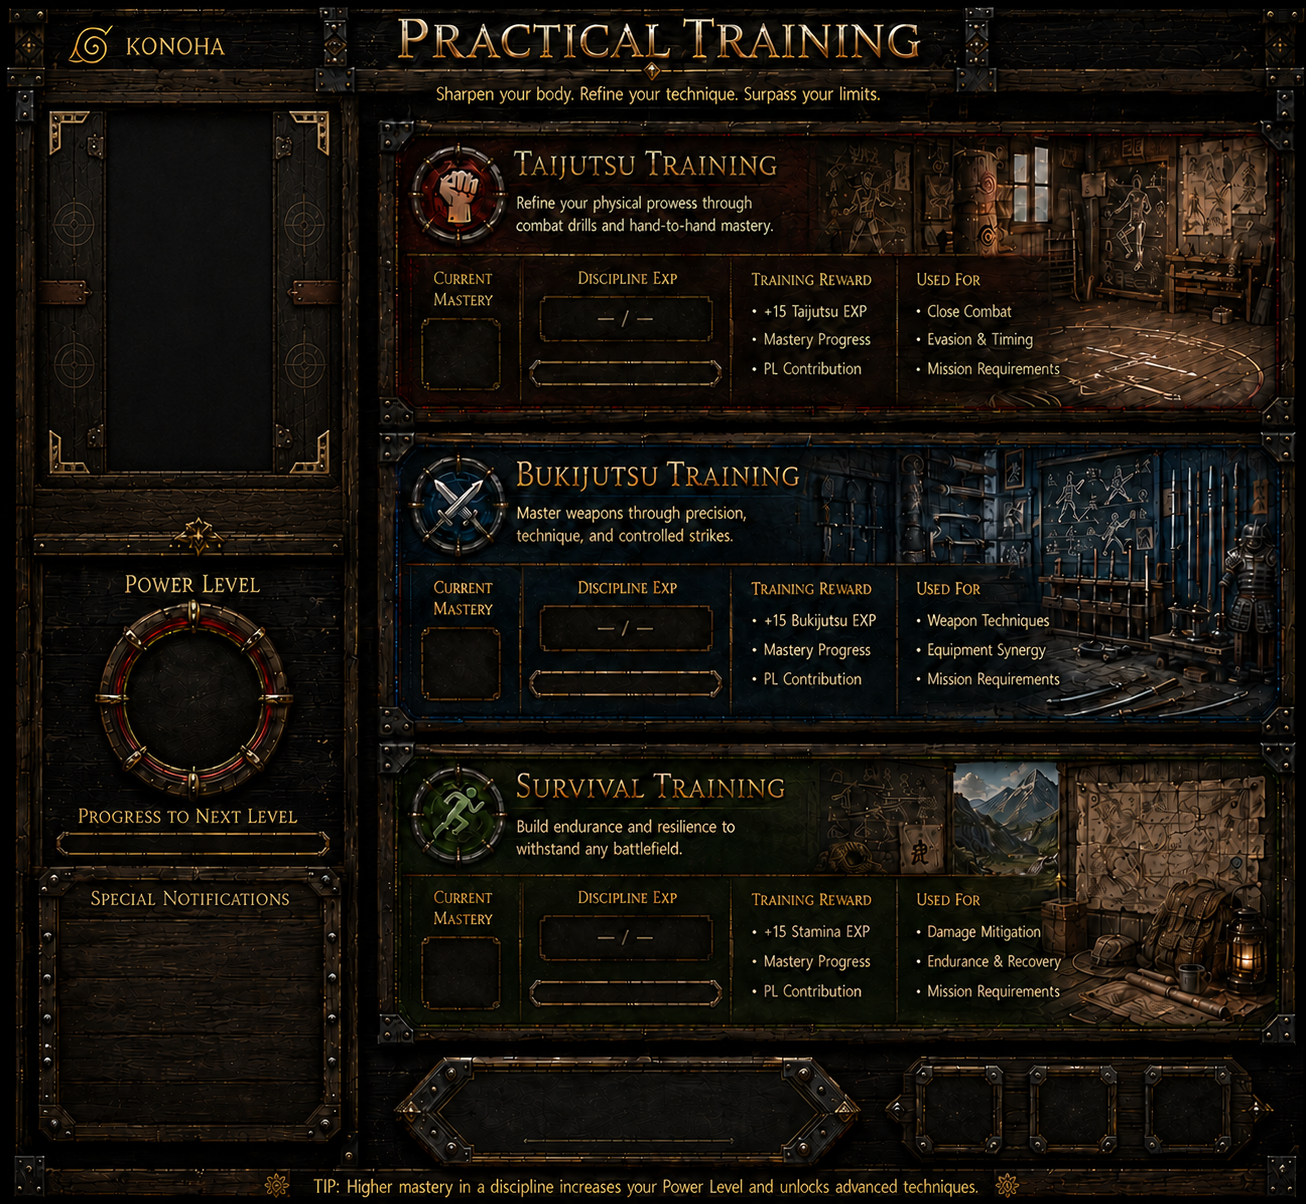
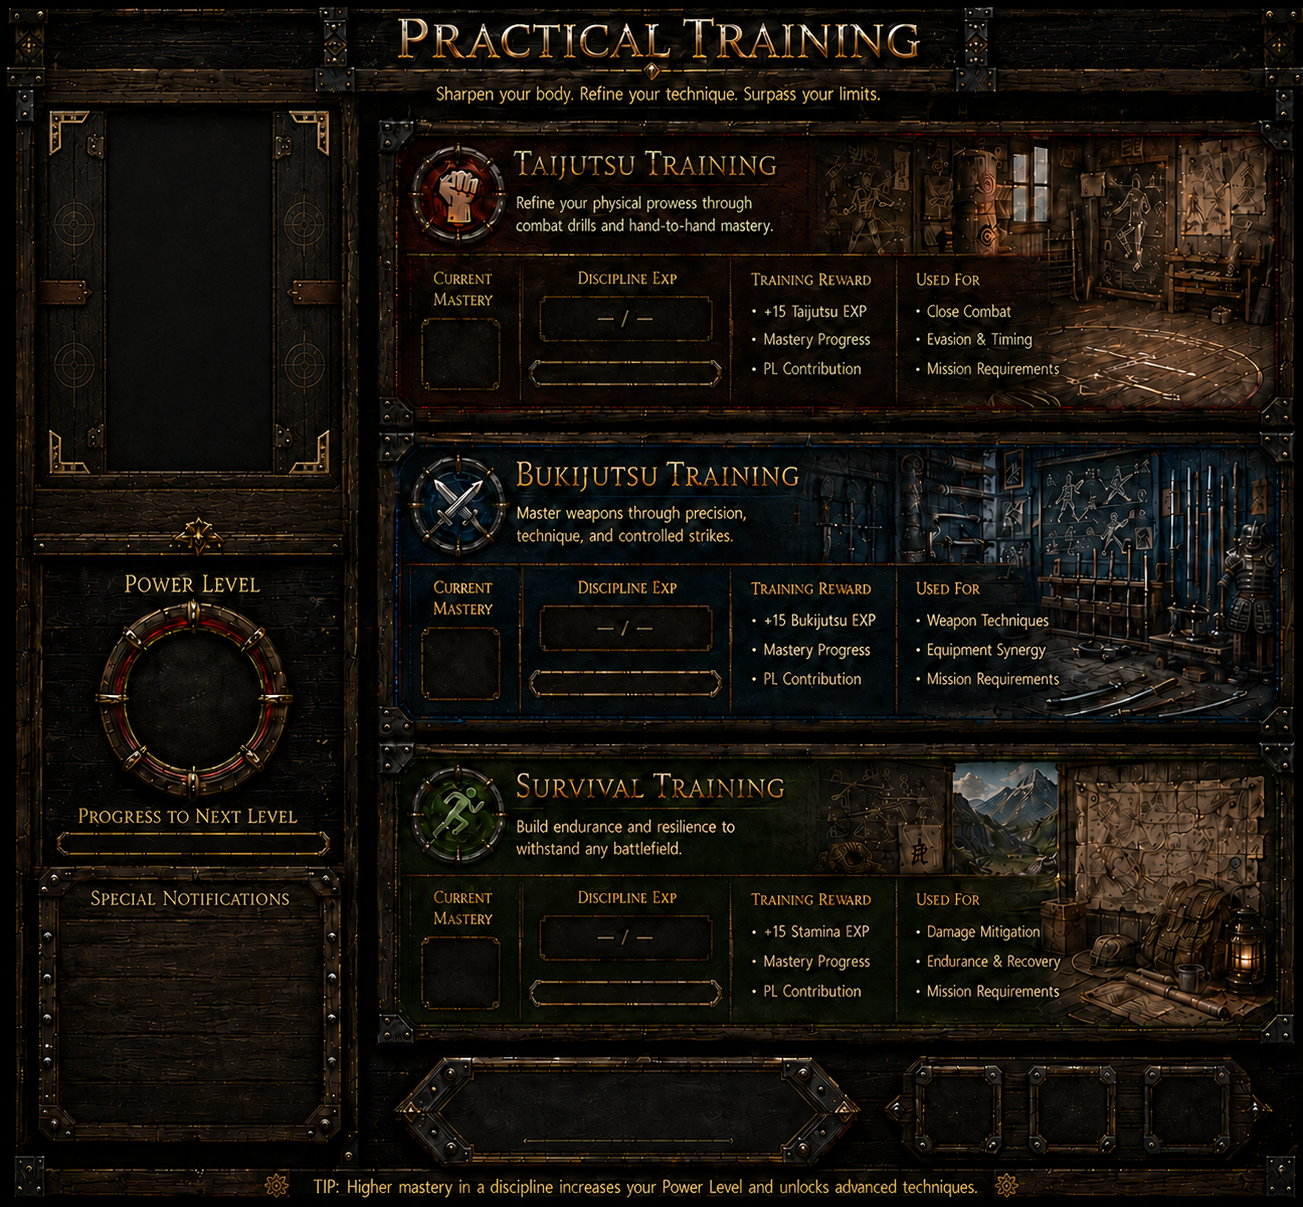
update practical ui

diff --git a/style.css b/style.css
@@ -7258,10 +7258,10 @@ body {
 .practical-konoha-return {
 
     left:
-        1.5% !important;
+        6% !important;
 
     top:
-        1.5% !important;
+        4% !important;
 
     min-width:
         17% !important;
@@ -7281,22 +7281,17 @@ body {
     justify-content:
         center !important;
 
-    border:
-        1px solid
-        rgba(
-            211,
-            169,
-            66,
-            0.36
-        ) !important;
-
     background:
-        rgba(
-            2,
-            7,
-            9,
-            0.58
-        ) !important;
+    transparent !important;
+
+border:
+    none !important;
+
+outline:
+    none !important;
+
+box-shadow:
+    none !important;
 
     color:
         #e4c36d !important;
